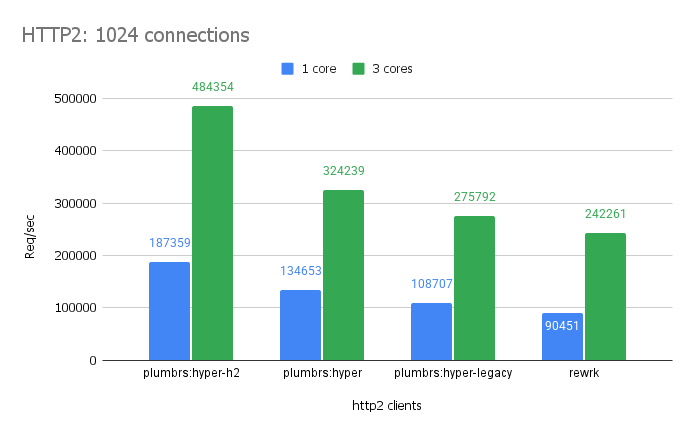
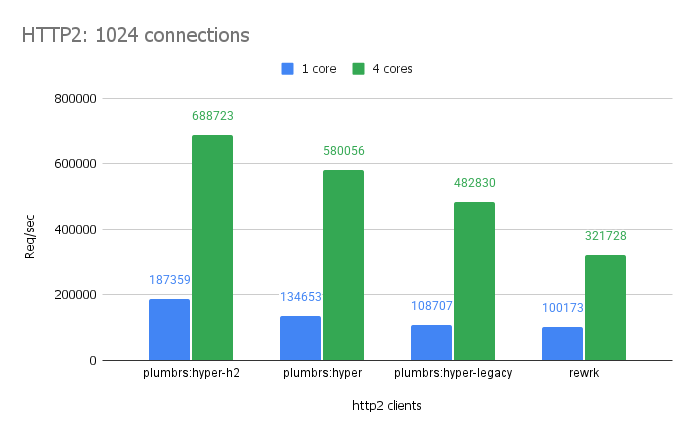
Bump version to 0.10.7 and update performance benchmarks

diff --git a/README.md b/README.md
@@ -303,7 +303,7 @@ The HTTP/1.1 benchmark compares Plumbrs clients against established tools like `
 
 ![HTTP/2 Performance](pics/http2_perf.png)
 
-For HTTP/2, the `hyper-h2` client leads the pack with **187K RPS on a single thread** and **484K RPS with 3 threads**, demonstrating efficient stream multiplexing over a single connection. The standard `hyper` client with HTTP/2 follows closely (134K → 324K RPS), while `hyper-legacy` maintains solid performance (108K → 275K RPS). All Plumbrs HTTP/2 clients outperform `rewrk` (90K → 242K RPS) in this benchmark. The `--http2-initial-stream-window-size` and `--http2-initial-connection-window-size` options can be tuned to further optimize flow control for specific workloads.
+For HTTP/2, the `hyper-h2` client leads the pack with **187K RPS on a single thread** and **689K RPS with 4 threads**, demonstrating efficient stream multiplexing over a single connection. The standard `hyper` client with HTTP/2 follows closely (135K → 580K RPS), while `hyper-legacy` maintains solid performance (109K → 483K RPS). All Plumbrs HTTP/2 clients outperform `rewrk` (100K → 322K RPS) in this benchmark. The `--http2-initial-stream-window-size` and `--http2-initial-connection-window-size` options can be tuned to further optimize flow control for specific workloads.
 
 ## Enabling Tokio unstable APIs
 
